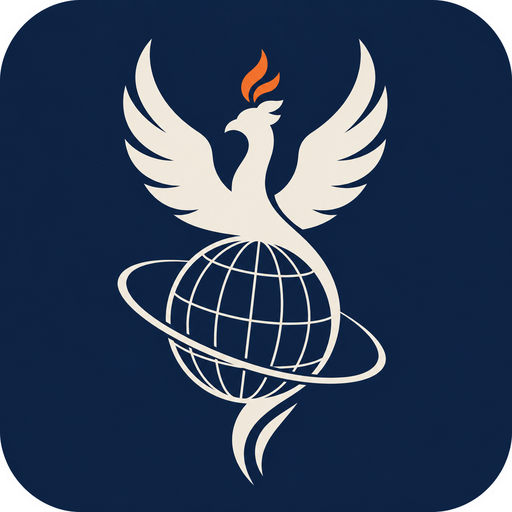
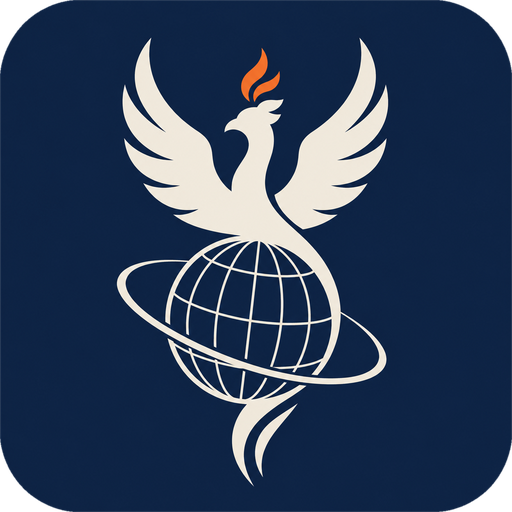
fix(brand): remove white corner fringe from the raster mark tile
The lockup showed white notches at the mark's four rounded corners on dark
backgrounds. Cause: transparent_mark used a guessed geometric rounded-rect alpha
whose corner radius was too small, so the mask cut OUTSIDE the navy tile's actual
(rounder) corners and left the source PNG's white page showing through.

Derive the alpha from the tile's true silhouette instead: the white page shows only
in the four corners (the navy tile fills the frame edge-to-edge on the flat sides),
so `outer` = every near-white blob touching the frame edge (all four corners at
once); `tile` = the largest remaining component; erode 3px to cut just inside the
navy so the antialiased navy/white rim is dropped. Verified: edge-ring whitish pixels
drop to zero at erode>=2, and 4x corner zooms on #0d1117 show clean navy->transparent
with no white. Light variant unaffected.

diff --git a/brand/build_raster_lockup.py b/brand/build_raster_lockup.py
@@ -22,8 +22,8 @@ import io
 
 import cairosvg
 import numpy as np
-from PIL import Image, ImageDraw
-from scipy.ndimage import label
+from PIL import Image
+from scipy.ndimage import label, binary_erosion, gaussian_filter
 
 from fontTools.ttLib import TTFont
 from fontTools.pens.svgPathPen import SVGPathPen
@@ -43,30 +43,31 @@ SCALE = 3              # rasterize at 3x for retina crispness
 
 
 def transparent_mark(src):
-    """Return the source tile as RGBA with the white background beyond the rounded tile made
-    transparent via a clean geometric rounded-rect mask (no antialiased white fringe on dark bg)."""
+    """Return the source tile as RGBA with the white page beyond the rounded tile made transparent.
+
+    The tile is derived from its true silhouette, not a guessed rounded-rect: the white page shows only
+    in the four rounded corners (the navy tile fills the frame edge-to-edge on the flat sides), so
+    ``outer`` is every near-white blob touching the frame edge (all four corners at once). ``tile`` is
+    the largest remaining component; eroding it a few px cuts just inside the navy so the antialiased
+    navy/white rim (which read as white notches on a dark background) is dropped entirely."""
     rgb = np.asarray(Image.open(src).convert("RGB"), float)
-    luma = 0.299 * rgb[..., 0] + 0.587 * rgb[..., 1] + 0.114 * rgb[..., 2]
-    offish = luma >= 140
-    lab, _ = label(offish)
+    white = rgb.min(-1) >= 190                 # near-white in every channel (the page + rim, not the ink)
+    lab, _ = label(white)
     border = (set(lab[0, :]) | set(lab[-1, :]) | set(lab[:, 0]) | set(lab[:, -1])) - {0}
-    outer = np.isin(lab, list(border))         # the white page beyond the rounded tile
-    tile = ~outer                              # navy tile + cream phoenix + ember
+    outer = np.isin(lab, list(border))         # all white blobs touching the frame edge = the 4 corners
+    tile = ~outer
+    tlab, _ = label(tile)                       # keep the largest tile blob, drop stray edge specks
+    sizes = np.bincount(tlab.ravel())
+    sizes[0] = 0
+    tile = tlab == sizes.argmax()
+    tile = binary_erosion(tile, iterations=3)   # cut inside the navy: no antialiased white rim survives
+
     ys, xs = np.where(tile)
     x0, x1, y0, y1 = xs.min(), xs.max(), ys.min(), ys.max()
-    # corner radius: rows that span (nearly) the full tile width are below the rounded corners.
-    full = np.where(tile[:, x0:x1 + 1].sum(1) >= 0.99 * (x1 - x0))[0]
-    r = int(full.min() - y0) if len(full) else int(0.18 * (x1 - x0))
-
-    src_img = Image.open(src).convert("RGB").crop((x0, y0, x1 + 1, y1 + 1))
-    w, h = src_img.size
-    ss = 4                                     # supersample the mask for crisp corners
-    mask = Image.new("L", (w * ss, h * ss), 0)
-    ImageDraw.Draw(mask).rounded_rectangle([0, 0, w * ss - 1, h * ss - 1], radius=r * ss, fill=255)
-    mask = mask.resize((w, h), Image.LANCZOS)
-    out = src_img.convert("RGBA")
-    out.putalpha(mask)
-    return out
+    alpha = gaussian_filter(tile * 255.0, 0.8)  # 1px feather for a clean edge (navy -> transparent)
+    out = Image.open(src).convert("RGBA")
+    out.putalpha(Image.fromarray(alpha.astype(np.uint8), "L"))
+    return out.crop((x0, y0, x1 + 1, y1 + 1))
 
 
 def typeset(font, text, track):